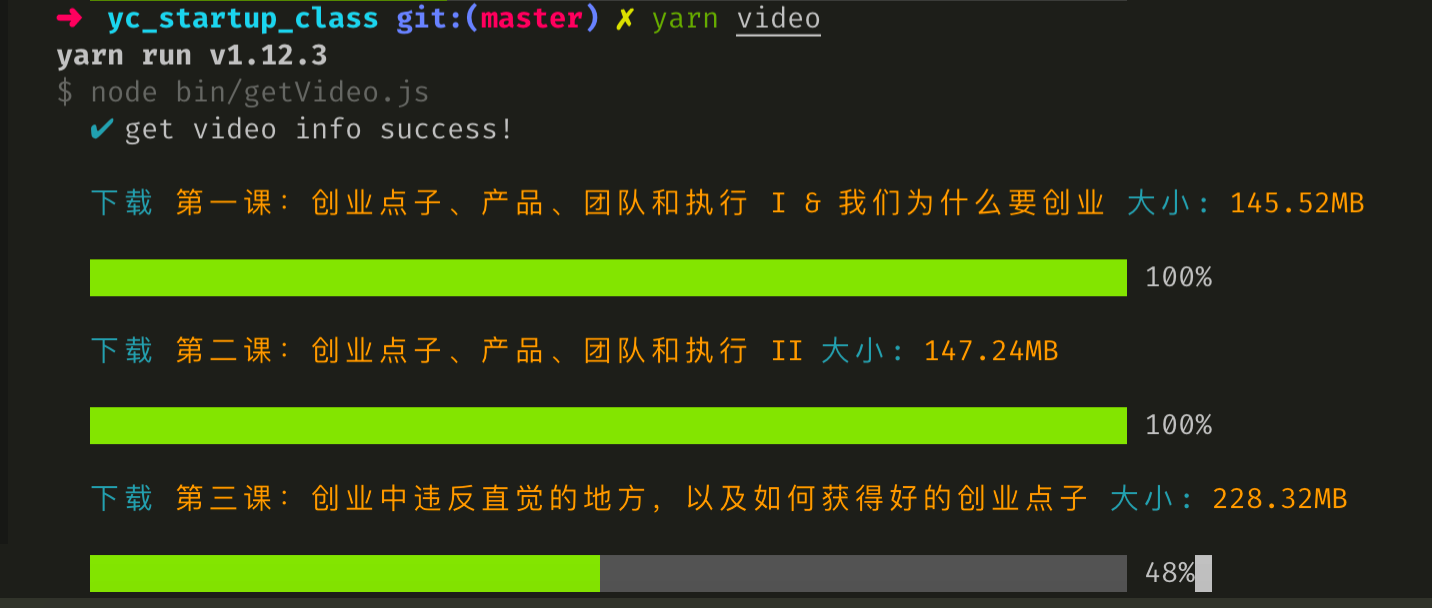
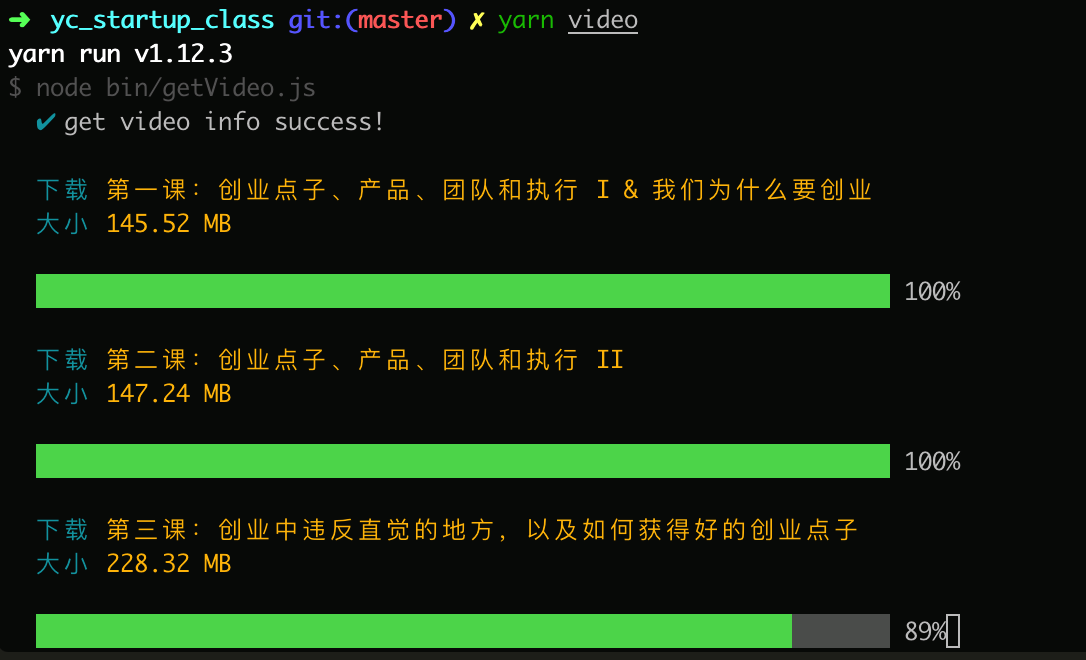
feat(cache): cache video info

diff --git a/bin/download.js b/bin/download.js
@@ -4,7 +4,8 @@ const ProgressBar = require('progress');
 
 const {
   log: {
-    logBoth,
+    logBefore,
+    logAfter,
   },
   colorStr: {
     cyan,
@@ -17,7 +18,8 @@ module.exports = (name, downloadUrl) => new Promise((resolve, reject) => {
   request(downloadUrl)
     .on('response', (response) => {
       const respLength = response.headers['content-length'];
-      logBoth(cyan(`下载 ${yellow(name)} 大小: ${yellow(prettyBytes(respLength, 5, false))}`));
+      logBefore(cyan(`下载 ${yellow(name)}`));
+      logAfter(cyan(`大小 ${yellow(prettyBytes(respLength, 5))}`));
       const bar = new ProgressBar('  :bar :percent', {
         complete: '\u001b[102m \u001b[0m', // Bright Green
         incomplete: '\u001b[100m \u001b[0m', // Bright Black

diff --git a/bin/getVideo.js b/bin/getVideo.js
@@ -2,6 +2,7 @@ const cheerio = require('cheerio');
 const download = require('./download');
 
 const {
+  cache: Cache,
   chainAsync,
   spinner: {
     logWithSpinner,
@@ -20,6 +21,8 @@ const {
 } = require('@new4/utils');
 
 const STARTUP_CLASS_URL = 'http://www.startupclass.club';
+
+const cache = new Cache();
 
 async function loadPage(name, url) {
   let response;
@@ -71,6 +74,7 @@ async function getVideoLink(info) {
     )
     .then((videoLinks) => {
       stopSpinner('get video info success!');
+      cache.save('videoLinks', videoLinks);
       const fns = videoLinks.map(({ title, link }) => async (next) => {
         await download(title, link);
         next && next();

diff --git a/README.md b/README.md
@@ -20,6 +20,8 @@ npm run video
 yarn video
 ```
 
+会将所有视频的名字和对应下载链接信息保存到文件 `.cache/videoLinks.json` 中去
+
 下载过程如图：
 
 ![download](./assets/yc.png)
